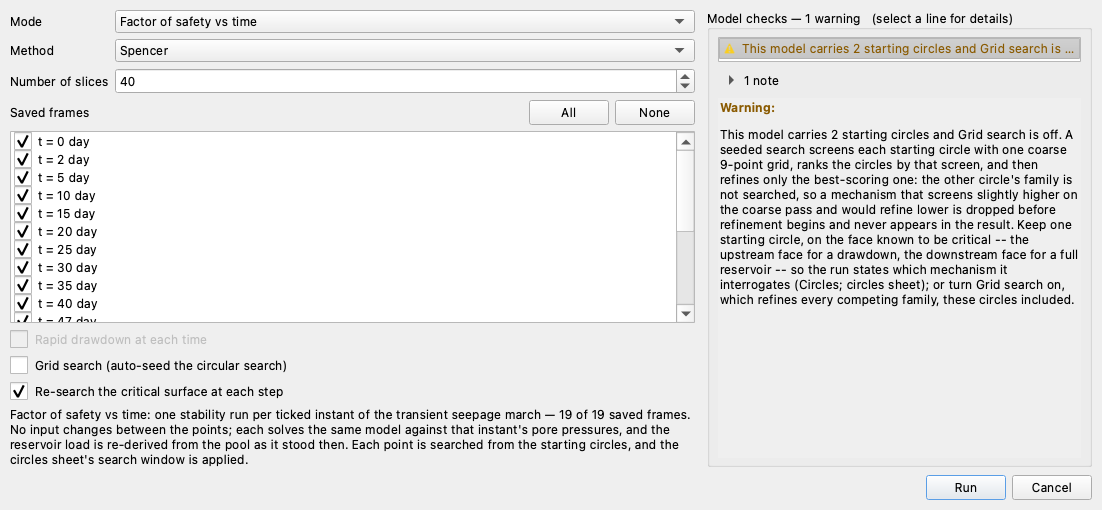
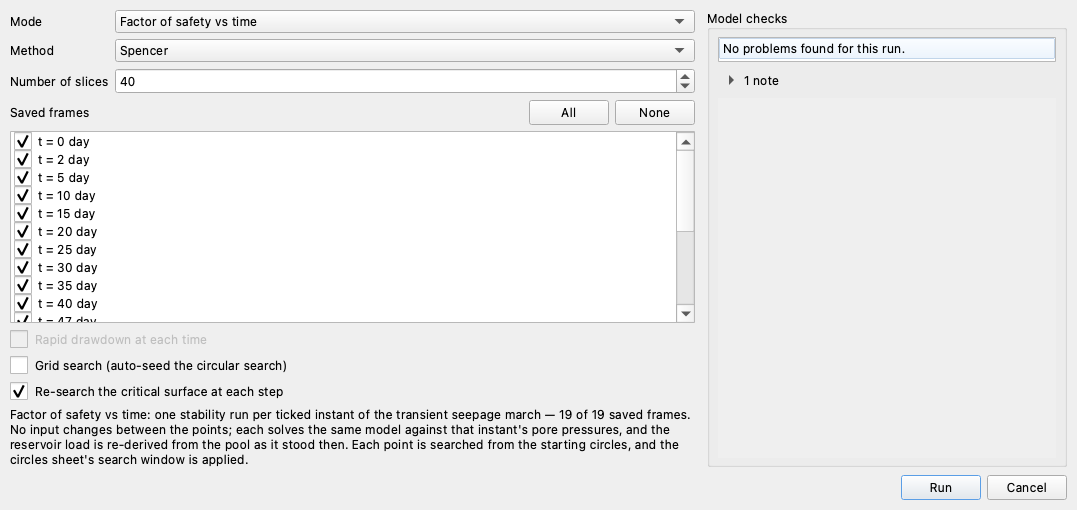
preflight: circles.multiple_without_grid removed (owner ruling — several starting circles is normal practice); rapid.pool_static_between_stages added — a transient-staged drawdown whose reservoir does not fall between the stage times is warned; COMBO-3 shots regenerated
Claude-Session: https://claude.ai/code/session_01XjjT2aBxw8gY7EFdpoUcpj

diff --git a/xslope/preflight.py b/xslope/preflight.py
@@ -841,20 +841,6 @@ class _Ctx:
         return bool(self.selection.get("search"))
 
     @property
-    def grid_seed(self):
-        """True when the circular search auto-seeds itself from the geometry.
-
-        ``grid_seed`` is the name the Run LEM dialog's **Grid search** toggle and
-        ``search.run_lem_analysis`` both use; ``circular_search`` spells the same
-        thing ``seed='grid'``, so either form is read here. Absent means OFF, which
-        is what every entry point defaults to.
-        """
-        sel = self.selection
-        if sel.get("grid_seed"):
-            return True
-        return str(sel.get("seed") or "").strip().lower() == "grid"
-
-    @property
     def surface_supplied(self):
         """True when the caller handed the run its failure surface directly.
 
@@ -1184,6 +1170,23 @@ class _Ctx:
         if len(times) >= 2:
             return times[1]
         return _num(self.sd.get("seep_u2_time"))
+
+    @property
+    def staged_stage1_time(self):
+        """The instant :attr:`staged_drawdown` reads stage 1 at, or ``None``.
+
+        The mirror of :attr:`staged_stage2_time`, read from the same three places
+        in the same order: the interface's ``seep_frame``, the instant a scripted
+        run already wrote, and -- for a run that has named its stage 2 without
+        naming its stage 1 -- the ``tseep`` sheet the staging would read.
+        """
+        times = self.seep_frame_times
+        if len(times) >= 2:
+            return times[0]
+        t = _num(self.sd.get("seep_u_time"))
+        if t is not None:
+            return t
+        return _num((self.tseep or {}).get("stage_1"))
 
     def series_at_start(self, name):
         """The first value of a named tseep series, or ``None`` when it has none."""
@@ -2403,50 +2406,6 @@ def _circle_below_domain_floor(ctx):
             f"above y = {_fmt(floor)} {_AT_CIRCLES}, or deepen the model so the "
             f"circle fits inside it -- {deeper}."))
     return out
-
-
-@rule("circles.multiple_without_grid", WARNING, ("lem",),
-      summary="A seeded circular search refines only the best-screening starting "
-              "circle; the other circles' families are never searched.")
-def _circles_multiple_without_grid(ctx):
-    # What the engine does, at search.py's launch selection: every starting circle
-    # gets ONE coarse 9-point grid, the starts are sorted by that coarse score, and
-    # `launches = all_starts[:1]` refines the top one alone. Grid search
-    # (`seed='grid'`) is the branch that refines up to four auto-seeded families
-    # plus every user circle.
-    #
-    # The cost is silent and it is not small. Two circles on a dam -- one upstream,
-    # one downstream -- read like two mechanisms being checked, and only one of them
-    # is. Which one survives is decided by a single coarse grid, at a resolution the
-    # refinement exists precisely because nobody trusts: a family that screens a few
-    # thousandths higher and refines far lower is dropped before refinement begins,
-    # and the run reports convergence on the survivor with nothing said about the
-    # rest. A single-surface run is silent here because it never claimed to search:
-    # it analyses circles[0] and says so.
-    if not ctx.is_search:
-        return None
-    if ctx.surface_supplied:
-        return None
-    if ctx.effective_surface_family != "circular":
-        return None
-    if ctx.grid_seed:
-        return None
-    n = len(ctx.sd.get("circles") or [])
-    if n < 2:
-        return None
-    rest = ("the other circle's family is not searched" if n == 2 else
-            f"the other {n - 1} circles' families are not searched")
-    return (
-        f"This model carries {n} starting circles and Grid search is off. A seeded "
-        f"search screens each starting circle with one coarse 9-point grid, ranks "
-        f"the circles by that screen, and then refines only the best-scoring one: "
-        f"{rest}, so a mechanism that "
-        f"screens slightly higher on the coarse pass and would refine lower is "
-        f"dropped before refinement begins and never appears in the result. Keep "
-        f"one starting circle, on the face known to be critical -- the upstream "
-        f"face for a drawdown, the downstream face for a full reservoir -- so the "
-        f"run states which mechanism it interrogates {_AT_CIRCLES}; or turn Grid "
-        f"search on, which refines every competing family, these circles included.")
 
 
 # ---------------------------------------------------------------------------
@@ -3743,6 +3702,57 @@ def _rapid_stage2_bc_ignored(ctx):
             f"editing it changes nothing. Clear it, or run the two-steady route -- "
             f"clear the Stage 1 / Stage 2 times {_AT_TSEEP} and solve set 2 on its "
             f"own -- to make it the drawn-down state {_AT_SEEPBC2}.")
+
+
+@rule("rapid.pool_static_between_stages", WARNING, ("rapid",),
+      "On the transient-staged route the pool has to fall between the stage times, "
+      "or both stages read the full pool.")
+def _rapid_pool_static(ctx):
+    """A staged drawdown whose boundary set 1 states the same pool at both instants.
+
+    On the transient-staged route the drawdown IS the pool schedule: stage 1 is
+    boundary set 1 as the schedule stands at the stage-1 time and stage 2 is the
+    same boundary set at the stage-2 time. Nothing else lowers the water. So a
+    reservoir head left as a fixed number, or bound to a series that is flat across
+    the two instants, does not describe a drawdown at all -- the march runs, both
+    frames come back, and the two stages are the same state. The answer is the
+    full-pool factor of safety wearing a drawdown's name, which is the
+    unconservative direction and reads as a perfectly ordinary result.
+
+    Only boundary set 1 is measured, because on this route it is the only set read
+    (see :func:`_rapid_stage2_bc_ignored`), and only blocks drawn ON the ground
+    surface count as a pool -- the same reading ``water.bc_pool_levels`` gives the
+    load derivation, so the rule and the water the run actually applies cannot
+    disagree.
+    """
+    if not ctx.staged_drawdown:
+        return None
+    t1, t2 = ctx.staged_stage1_time, ctx.staged_stage2_time
+    if t1 is None or t2 is None:
+        return None
+    from .water import bc_pool_levels           # local: water.py is a heavy import
+    ground = ctx.sd.get("ground_surface")
+    p1 = bc_pool_levels(ctx.seep_bc, ground, ctx.sd, t1)
+    p2 = bc_pool_levels(ctx.seep_bc, ground, ctx.sd, t2)
+    if not p1 or len(p1) != len(p2):
+        return None            # nothing states a pool, or the two readings do not pair
+    height = ctx.slope_height or 1.0
+    tol = max(1e-9, 1e-4 * height)
+    if any(a[0] - b[0] > tol for a, b in zip(p1, p2)):
+        return None            # some pool falls -- this run has a drawdown in it
+    top1, _anchors, label = max(p1, key=lambda e: e[0])
+    top2 = max(e[0] for e in p2)
+    unit = str(ctx.sd.get("time_unit") or "").strip()
+    unit = f" {unit}" if unit else ""
+    return (f"The pool stands at elevation {top1:g} at the stage-1 time "
+            f"(t = {_fmt(t1)}{unit}) and at {top2:g} at the stage-2 time "
+            f"(t = {_fmt(t2)}{unit}): it does not fall between them. This rapid "
+            f"drawdown reads BOTH its stages from the transient march, so nothing "
+            f"else lowers the water -- the march never lowers the pool, and the "
+            f"drawdown answer is the full-pool state read twice, which is too high. "
+            f"Bind {label.split(' at elevation')[0]}'s Value to a time series "
+            f"that falls across the two stage times {_AT_SEEPBC}, and give the "
+            f"series the levels it holds at each of them {_AT_TSEEP}.")
 
 
 @rule("rapid.ru_has_no_stage2", WARNING, ("rapid",),

diff --git a/run_tests.py b/run_tests.py
@@ -3972,6 +3972,13 @@ def _pf_tseep(sd, **kw):
     return sd
 
 
+def _pf_bc_head(sd, i, value, which=1):
+    """Set the VALUE of one specified-head block: a number, or a tseep series name."""
+    bc = sd['seepage_bc' if which == 1 else 'seepage_bc2']
+    bc['specified_heads'][i]['head'] = value
+    return sd
+
+
 def _pf_pts(obj):
     """(x, y) pairs from a shapely line or a plain coordinate list."""
     return [(float(x), float(y)) for x, y in getattr(obj, 'coords', obj)]
@@ -4211,17 +4218,6 @@ PREFLIGHT_RULE_SPECS = [
          mutation=lambda sd: _pf_circle_depth(sd, 200.0),
          control=lambda sd: _pf_circle_depth(sd, 20.0),
          expect='no slices can be generated from it'),
-    # Nothing about the FILE is broken here -- xslope_dam.xlsx carries two starting
-    # circles because a dam has two faces -- so the model is the same in both halves
-    # and the only difference is the RUN: Grid search off refines the best-screening
-    # circle alone, Grid search on refines every family. That makes the control the
-    # proof the toggle is read rather than merely accepted.
-    dict(rule='circles.multiple_without_grid', base=PREFLIGHT_BASE_LEM, mode='dict',
-         selection={'surface': 'circular', 'search': True},
-         control_selection={'surface': 'circular', 'search': True,
-                            'grid_seed': True},
-         mutation=lambda sd: sd, control=lambda sd: sd,
-         expect='refines only the best-scoring one'),
 
     # --- polyline ordering -------------------------------------------------
     dict(rule='order.piezo_reversed', base=PREFLIGHT_BASE_LEM, mode='excel',
@@ -4518,6 +4514,23 @@ PREFLIGHT_RULE_SPECS = [
          control_selection={'surface': 'circular'},
          mutation=lambda sd: sd,
          expect='reads BOTH its stages from the transient march'),
+    # The two ways the pool schedule can fail to be a drawdown, each against the
+    # SAME file staged the same way with its real falling schedule in place: a
+    # reservoir head typed as a fixed number (no series bound at all), and one bound
+    # to a series that is flat across the stage times. In both the march runs and
+    # both frames come back -- what is missing is the fall.
+    dict(rule='rapid.pool_static_between_stages', base=PREFLIGHT_BASE_RAPID_TSEEP,
+         mode='dict', analysis='rapid',
+         mutation=lambda sd: _pf_set(_pf_bc_head(sd, 0, 160.0), seep_u2_time=50.0),
+         control=lambda sd: _pf_set(sd, seep_u2_time=50.0),
+         expect='does not fall between them'),
+    dict(rule='rapid.pool_static_between_stages', base=PREFLIGHT_BASE_RAPID_TSEEP,
+         mode='dict', analysis='rapid',
+         selection={'surface': 'circular',
+                    'seep_frame': {'times': [0.0, 50.0]}},
+         mutation=lambda sd: _pf_tseep(sd, series={
+             k: [v[0]] * len(v) for k, v in sd['tseep']['series'].items()}),
+         expect='does not fall between them'),
     dict(rule='rapid.ru_has_no_stage2', base=PREFLIGHT_BASE_RAPID, mode='excel',
          analysis='rapid',
          mutation=lambda sd: _pf_mats(sd, u='ru', ru=0.3),

diff --git a/studio/dialogs.py b/studio/dialogs.py
@@ -1319,8 +1319,7 @@ class RunLemDialog(QDialog):
             "starting circles, and a single seed in the wrong place can converge to a "
             "local minimum that reads 20% or more too high, with no warning.\n\n"
             "Leave it off to interrogate a specific mechanism with your own circles.")
-        # The checks read grid_seed out of _selection(), so toggling it has to
-        # re-ask them: the several-starting-circles warning stands or falls on it.
+        # Toggling it changes the run the checks are describing, so re-ask them.
         self.grid_seed.toggled.connect(lambda *_: self._recheck())
         form.addRow("", self.grid_seed)
 
@@ -1462,8 +1461,7 @@ class RunLemDialog(QDialog):
                 "surface": self._surface_value(),
                 "search": self.analysis.currentData() == "auto_search",
                 # Grid seeding changes which mechanisms a search reaches, so the
-                # checks are told about it: several starting circles are a warning
-                # on a seeded search and none at all on a grid-seeded one.
+                # checks are handed the whole run description, seeding included.
                 "grid_seed": (self.grid_seed.isChecked()
                               if hasattr(self, "grid_seed") else False),
                 "seep_frame": self._seep_frame()}
@@ -2183,8 +2181,8 @@ class SensitivityDialog(QDialog):
                "search": self.search.isChecked()}
         if self.mode.currentData() == "fs_vs_time":
             picked = self.selected_times()
-            # Same key Run LEM passes: with Grid search on, every competing family
-            # is refined, so several starting circles raise nothing.
+            # Same key Run LEM passes, so both dialogs describe the run the
+            # checks are asked about the same way.
             sel["grid_seed"] = (self.grid_seed.isChecked()
                                 if hasattr(self, "grid_seed") else False)
             if self.rapid.isChecked():

diff --git a/studio/editors.py b/studio/editors.py
@@ -5210,11 +5210,7 @@ def _circles_generate_spec(slope_data):
             "tooltip": "Derive a starting set from the slope's own geometry: for each "
                        "significant face, a circle through the toe and one at the base "
                        "of each layer, centered above the middle of the face at twice "
-                       "the slope height.\n\n"
-                       "These are candidates, not separate searches: an automated "
-                       "search with Grid search off refines only the circle that "
-                       "screens best on a coarse pass. Tick Grid search in the Run LEM "
-                       "dialog to refine every competing family."}
+                       "the slope height."}
     probe = generate_starting_circles(slope_data, report=True)
     if not probe["circles"]:
         spec["available"] = False

diff --git a/docs/usage/preflight.md b/docs/usage/preflight.md
@@ -193,7 +193,7 @@ severity and one-line summary.
 | **Water** | The unit weight of water; a material reading a piezometric line that does not exist or stops short of the section; a line no material reads; standing water above the ground surface with no distributed load carrying its weight; and, on a model with [automatic water loads](#automatic-water-loads), a transcribed block the engine would derive a second time, a pool the derivation could not measure, and two water definitions that disagree |
 | **Materials** | The pore-pressure, unsaturated-model and strength-model vocabularies; a material inside the geometry with no strength model, no unit weight, or no strength at all; `u = ru` with no ratio; `option = cp` with no undrained strength; a Hoek-Brown material under the Corps of Engineers or Lowe & Karafiath method, which fix the interslice force inclination rather than solving for it and stop converging at the friction angles a curved envelope reaches near a slope face |
 | **Global parameters** | A blank seismic coefficient; a coefficient outside the plausible range, or entered with a sign the limit-equilibrium engine cannot use; water in the crack deeper than the crack that holds it |
-| **Surfaces** | A model with no failure surface at all; a method that cannot use the selected surface family; a model carrying both families where the run did not say which; a circle whose **Depth** sits below the base of the model and that cuts no failure surface inside it — reported against a search, whose refinement moves off its seeds and reaches the critical surface anyway, and raised to an error where that circle *is* the run's surface, so the Run dialog refuses it; and a circular search started from two or more circles with **Grid search** off, which screens the circles on one coarse pass and then refines only the best of them, leaving the rest unsearched |
+| **Surfaces** | A model with no failure surface at all; a method that cannot use the selected surface family; a model carrying both families where the run did not say which; a circle whose **Depth** sits below the base of the model and that cuts no failure surface inside it — reported against a search, whose refinement moves off its seeds and reaches the critical surface anyway, and raised to an error where that circle *is* the run's surface, so the Run dialog refuses it |
 | **Model domain** | A domain whose boundary crosses or retraces itself, or encloses no area — the shape every analysis is bounded by, derived from the zones rather than typed, so a defect in it is invisible where you are looking. A **Max depth** left at the elevation of the toe produces one: the base of the model runs back along the ground surface, and slicing, meshing and searching all fail on it with a geometry error naming no field |
 | **Ordering** | A load or piezometric polyline entered right to left, or one whose x values rise and then fall |
 | **Units** | The unit weight of water and the soil unit weights against the declared system, and against each other when nothing is declared |

diff --git a/docs/studio/editing.md b/docs/studio/editing.md
@@ -167,10 +167,7 @@ vertical edge of the section are dropped. It reports what it built and what it
 dropped, under the button, which is what you audit the rows against. With circles
 already in the table it asks first, and can add to them instead of replacing them.
 On a section with no room for a circle to daylight the button is dimmed and its
-tooltip says so. A table holding more than one circle is a set of candidates rather
-than a set of searches: without **Grid search**, an automated search refines only the
-circle that screens best on a coarse pass, and the Run LEM model checks warn when a
-run would do that.
+tooltip says so.
 
 Under the table, the **Search window** group holds the ten optional limits that
 confine an automated circular search — entry and exit x ranges, a center box, a

diff --git a/docs/lem/search.md b/docs/lem/search.md
@@ -50,8 +50,7 @@ lower is dropped before refinement begins. Enter a single starting circle, on th
 face known to control, when the run is meant to interrogate one specific mechanism;
 turn on grid seeding, described next, when it is meant to find the critical surface
 anywhere in the model, since that mode refines up to four competing families with
-the sheet's own circles among them. Preflight reports the combination — two or more
-starting circles with **Grid search** off — as a warning.
+the sheet's own circles among them.
 
 ### Grid Seeding (Global Search)
 
